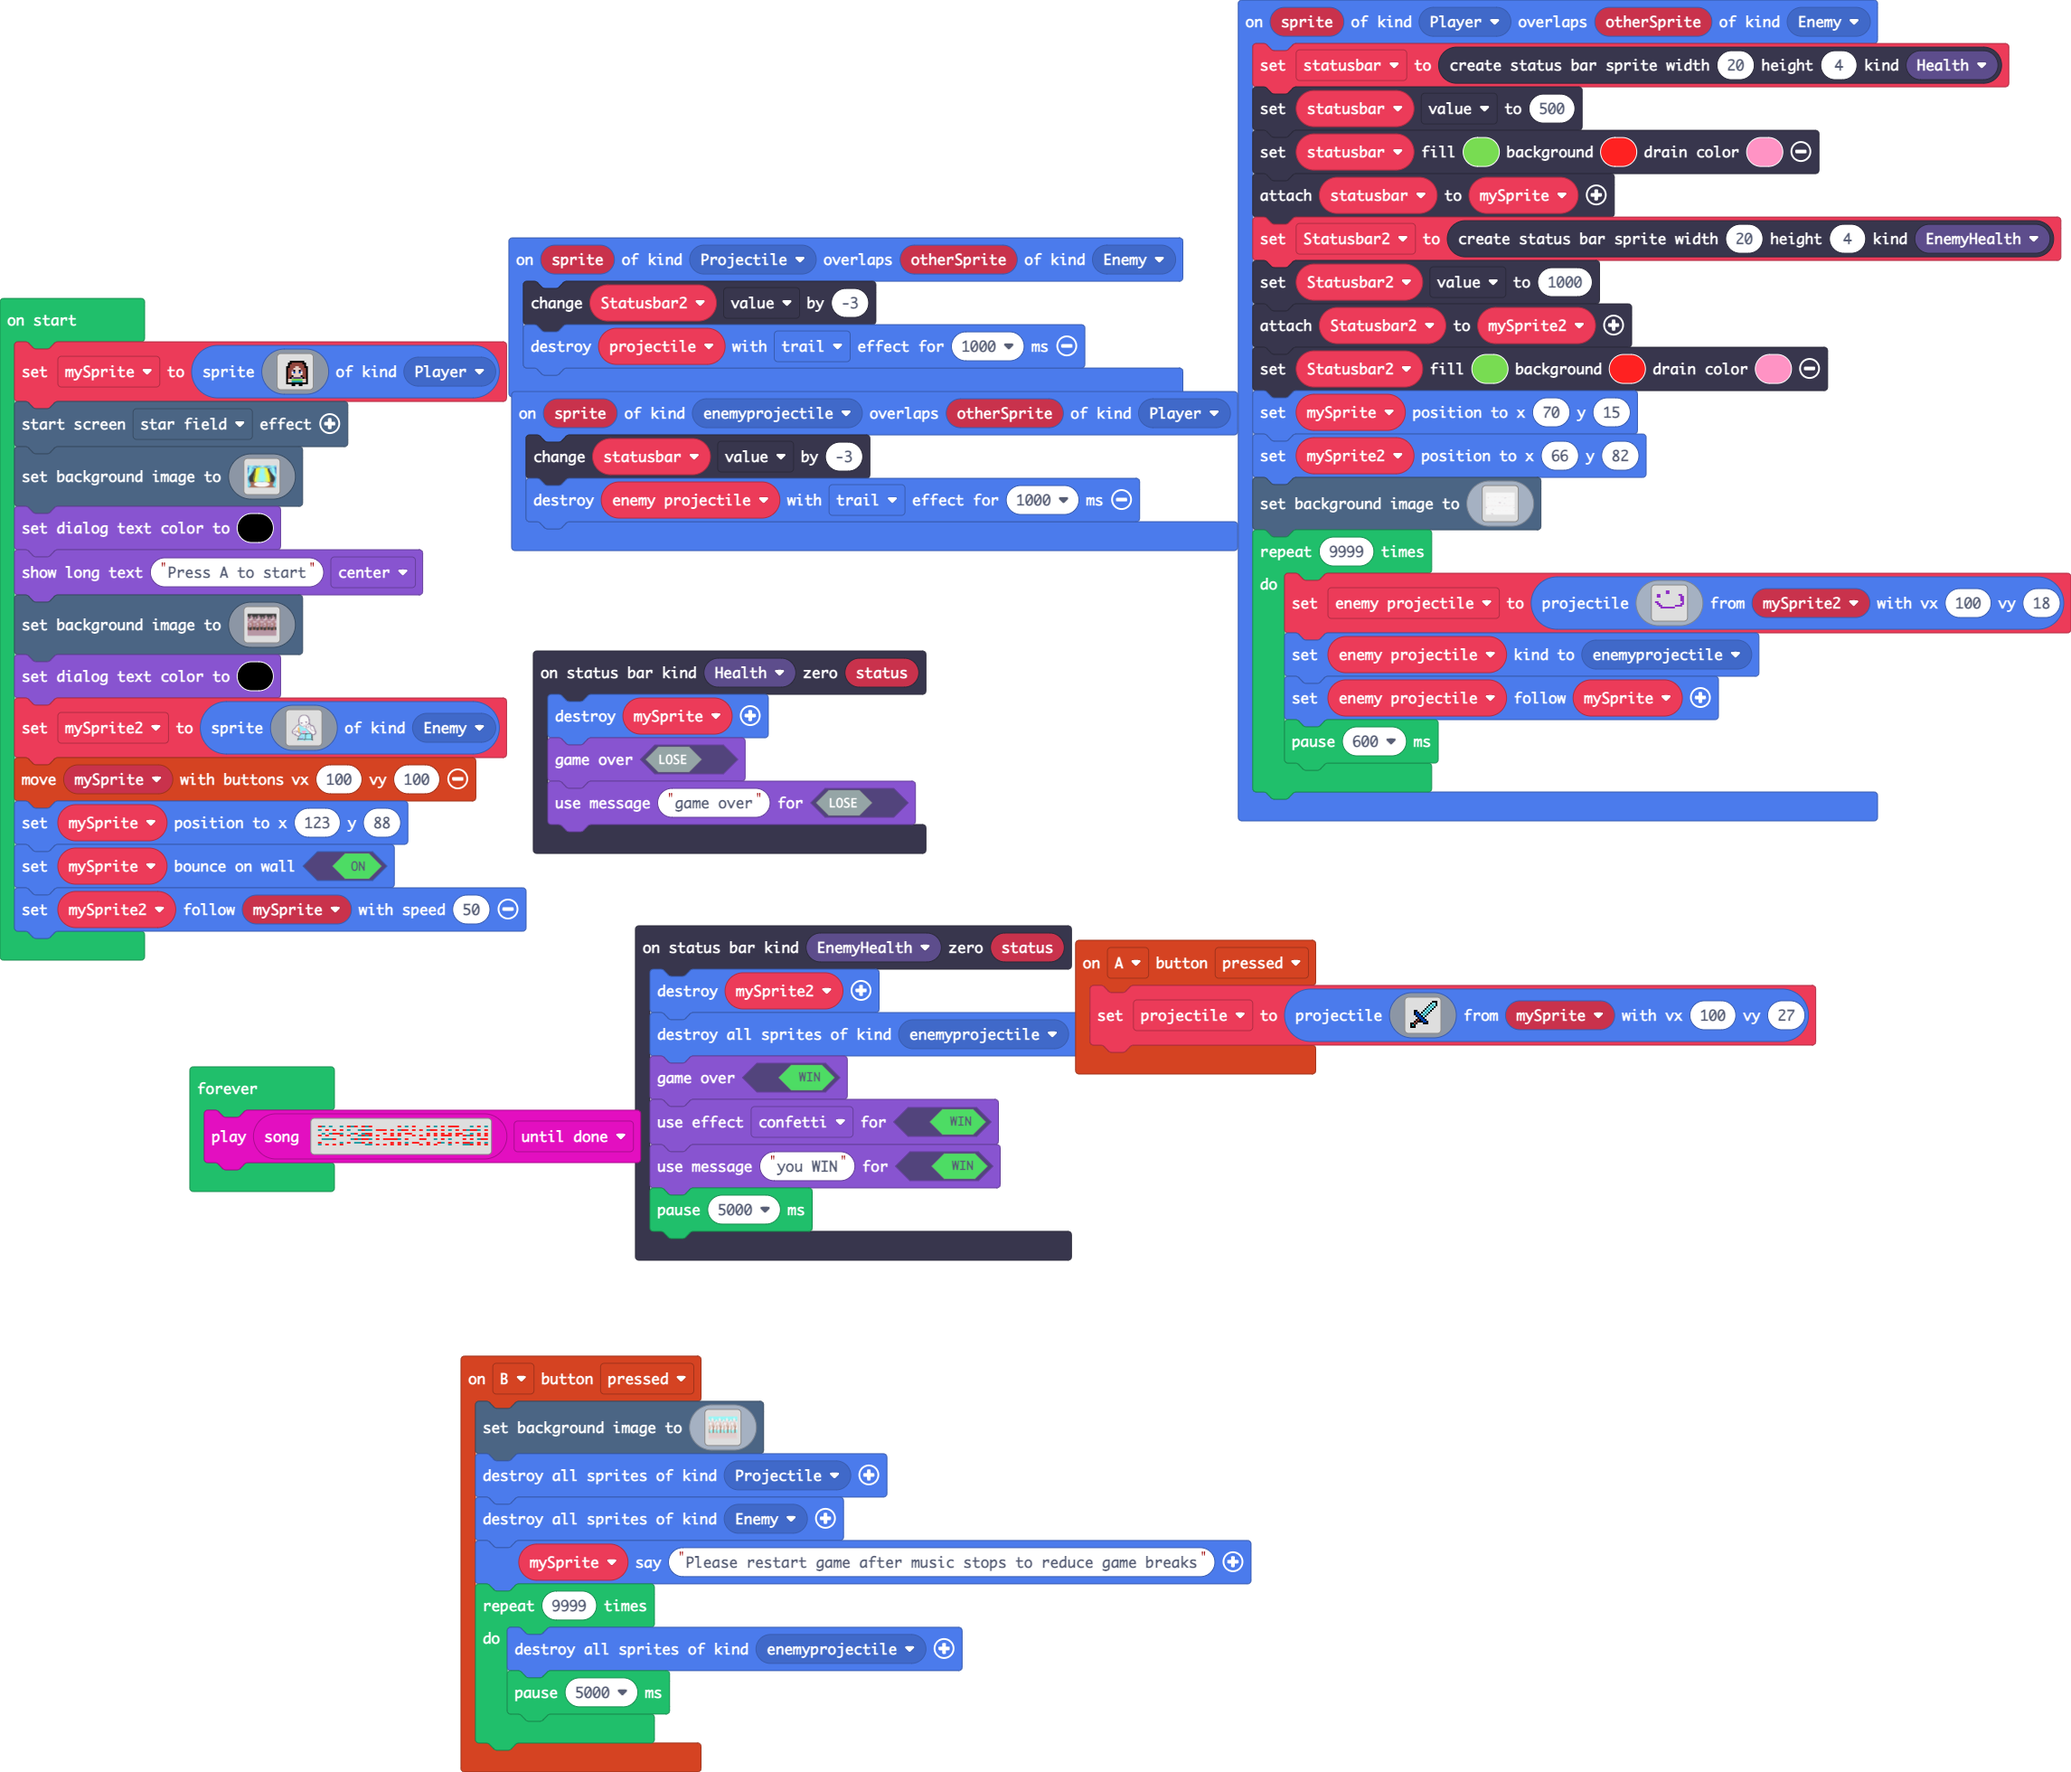
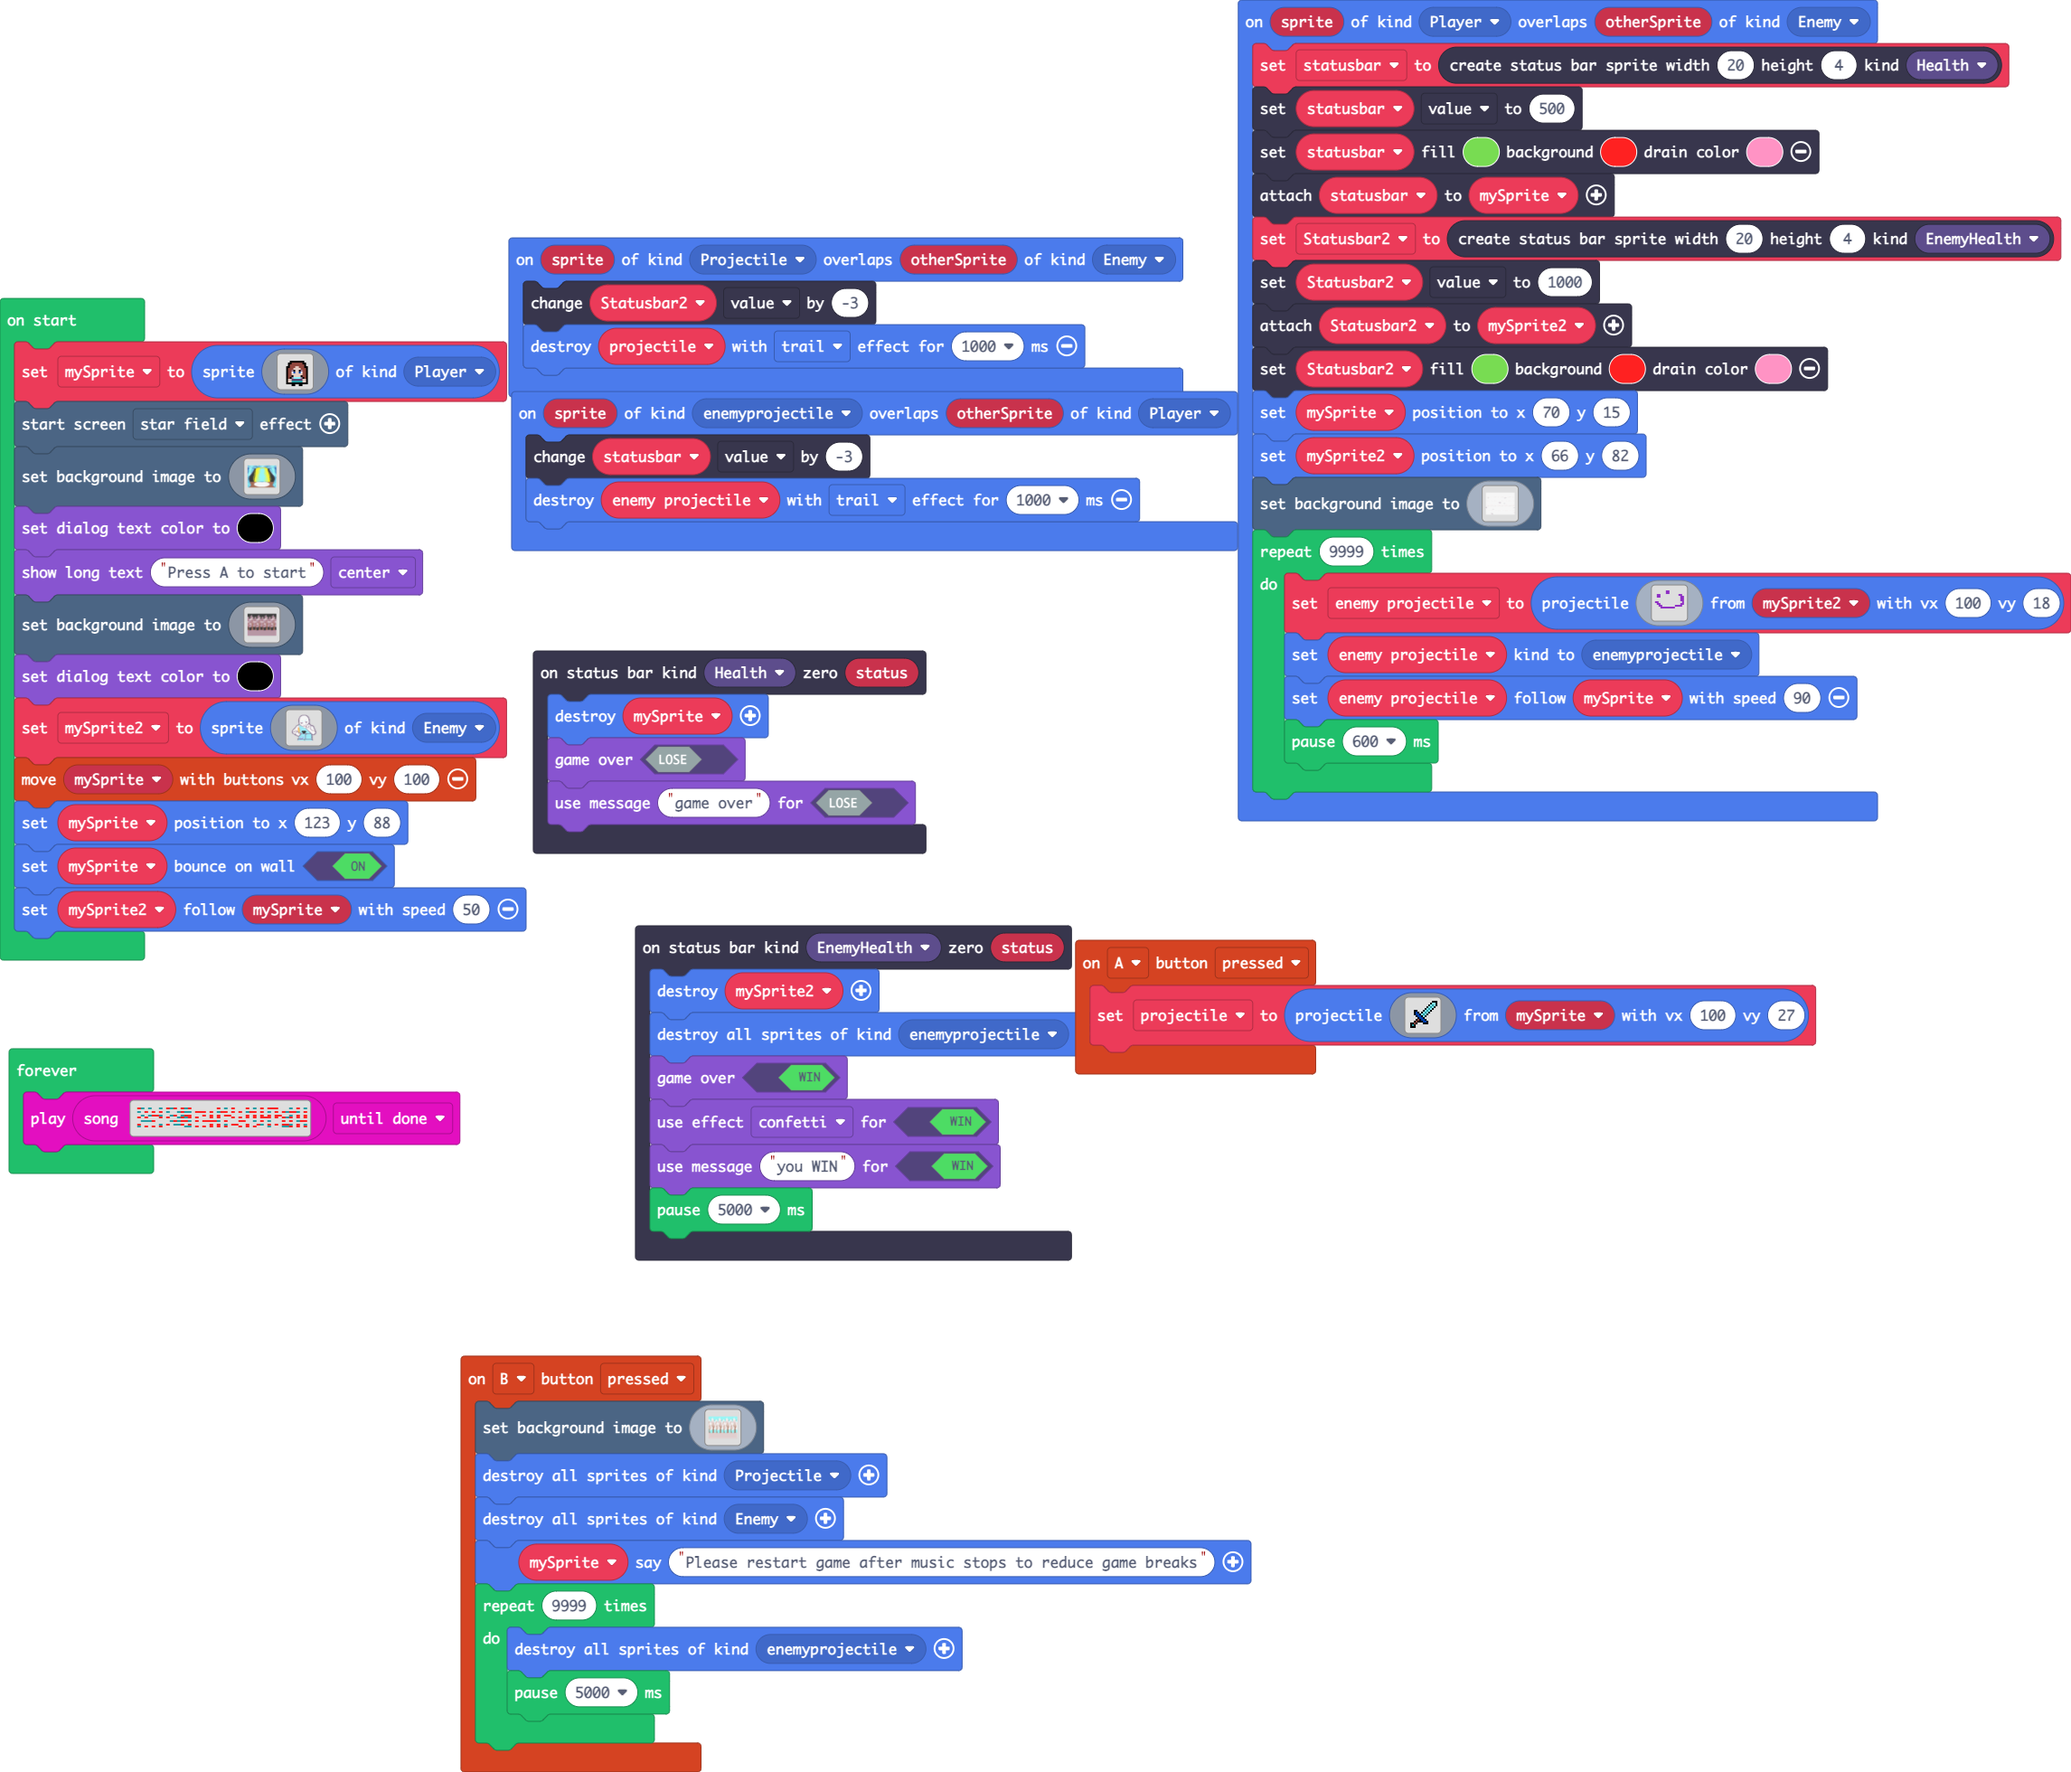
Update main.blocks, main.ts, images.g.jres, images.g.ts

Changed region(s): [[0.0, 0.5913, 0.3099, 0.6847], [0.8058, 0.3735, 0.8987, 0.4046]]

diff --git a/images.g.ts b/images.g.ts
@@ -736,25 +736,6 @@ f 4 4 4 4 4 1 4 4 f 4 4 d f f f
 . . . f f f f f f f f f f f f . 
 . . . . . . f f . . f f . . . . 
 `;
-            case "Mfrcm;8zj":
-            case "What_3":return img`
-. . . . . . . . . . . . . . . . 
-. . . . . . . . . . . . . . . . 
-. . . . . f f f f f f f f . . . 
-. . . . f f e e e e e e f f . . 
-. . . . f e e e e e e e e f . . 
-. . . f f e e e d d e e e f f . 
-. . . f e e e d d d d e e e f . 
-. . . f e e b f d d f b e e f . 
-. . . f e e 1 8 d d 8 1 e e f . 
-. . . f e e d d d d d d e e f . 
-. . . f e e f d d d d f e e f . 
-. . . f e f b c c c c b f e f . 
-. . . f d d 7 7 7 7 7 7 d d f . 
-. . . f d d 6 6 6 6 6 6 d d f . 
-. . . f f f f f f f f f f f f . 
-. . . . . . f f . . f f . . . . 
-`;
             case "auY}IkZuvW(lZXgt*zH=":
             case "What_5":return img`
 . . . . . . . . . . . . . f f f 
@@ -974,58 +955,24 @@ dddddddddddddddddddddddddddddddddddddddddddddddddddddddddddddddddddddddddddddddd
 dddddddddddddddddddddddddddddddddddddddddddddddddddddddddddddddddddddddddddddddddddddddddddddddddddddddddddddddddddddddddddddddddddddddddddddddddddddddddddddddd
 dddddddddddddddddddddddddddddddddddddddddddddddddddddddddddddddddddddddddddddddddddddddddddddddddddddddddddddddddddddddddddddddddddddddddddddddddddddddddddddddd
 `;
-            case "image7":
-            case "Ghost1":return img`
-..................................................
-..................................................
-..................................................
-...................fffffff........................
-..................ffddddddff......................
-.................fddd1111dddf.....................
-................fdd11111111ddf....................
-...............fdd1111111111ddf.....fffffff.......
-..............fdd111111111111ddf....f33f33f.......
-..............fd111ff111ff1111df....f33333f.......
-.............fdd111ff111ff1111ddf...ff333ff.......
-.............fd1111ff111ff11111df....ff3ff........
-.............fd1113311111331111df.....fff.........
-.............fd1113311111331111df.................
-.............fd111111fff1111111df.................
-.............fd1111111111111111df.................
-.............fd1111111111111111dff................
-.............fd1111111111111111dddf...............
-.........f..fdd111111111111111111df...............
-........fdffdd1111111111111111ddddf...............
-........fdddd1111111111111111ddffff...............
-........fd1111111111111111111df...................
-........fd111111111111111111ddf...................
-........fddd111111111111111ddf....................
-.........ffdd1111111111111ddf.....................
-...........fddd1111111111ddf......................
-............ffddddddddddddff......................
-.............fffffffffffff........................
-..................................................
-..................................................
-..................................................
-..................................................
-..................................................
-..................................................
-..................................................
-..................................................
-..................................................
-..................................................
-..................................................
-..................................................
-..................................................
-..................................................
-..................................................
-..................................................
-..................................................
-..................................................
-..................................................
-..................................................
-..................................................
-..................................................
+            case "Mfrcm;8zj":
+            case "What_3":return img`
+. . . . . . . . . . . . . . . . 
+. . . . . . . . . . . . . . . . 
+. . . . . f f f f f f f f . . . 
+. . . . f f e e e e e e f f . . 
+. . . . f e e e e e e e e f . . 
+. . . f f e e e d d e e e f f . 
+. . . f e e e d d d d e e e f . 
+. . . f e e b f d d f b e e f . 
+. . . f e e 1 8 d d 8 1 e e f . 
+. . . f e e d d d d d d e e f . 
+. . . f e e f d d d d f e e f . 
+. . . f e f b 9 9 9 9 b f e f . 
+. . . f d d c c c c c c d d f . 
+. . . f d d 6 6 6 6 6 6 d d f . 
+. . . f f f f f f f f f f f f . 
+. . . . . . f f . . f f . . . . 
 `;
             case "image6":
             case "finalBoss":return img`
@@ -1039,13 +986,13 @@ dddddddddddddddddddddddddddddddddddddddddddddddddddddddddddddddddddddddddddddddd
 .....................cc1111111111111111111c....................
 .....................c11111111111111111111c....................
 ....................cc11111111111111111111cc...................
-....................cc11111111111111111111cc...................
-....................cc111111111111111111111c...................
-....................cc111111111111111111111c...................
-....................cc111111111111111111111c...................
-....................cc111111111111bccc31111c...................
+....................cc11111111111111911111cc...................
+....................cc111111111111191111111c...................
+....................cc111119111111911111111c...................
+....................cc111111911111111111111c...................
+....................cc111111191111bcc3c1111c...................
 ....................cc11111111111111ccc1111c...................
-.....................c11bccc31111111cc11111c...................
+.....................c11bcc3c1111111cc11111c...................
 .....................cb111ccc1111111111111cc...................
 .....................cb111cc11111111111111cc...................
 .....................cb1111111111111b111ccccc..................
@@ -1063,27 +1010,27 @@ dddddddddddddddddddddddddddddddddddddddddddddddddddddddddddddddddddddddddddddddd
 ........cc111d1111145449999999999999999b1111111bb111111c.......
 .......cc11111d111d45549999999999999999bb1111111bb11111c.......
 .......c111111dd1ddd45499999999999999999bb1111111bbddd1cc......
-......cc1111bbbbbddd45499999fff9ffff99999bb11111111bddd1c......
+......cc1111bbbbbddd45499999fff9fff999999bb11111111bddd1c......
 ......cc11bbb111bbbd4549999ffffffffff99999bb11111111111dcc.....
-......cc11bb111bbbbc4549999ffffffffff99999dbc11111111111cc.....
-......cc11b111bb111bc5499999ffffffff9999999dcc11111111111c.....
-......cc111111b11111bc4cc9999ffffff99999999ddcc1111111111c.....
-.......cc1111b111111bb11cc9999ffff999999999dddcc11111111cc.....
-........cc111b1111111bb11cffffffffffffffffffffccc111111cc......
-..........cccb11111111bbcc9999f9999ffff999999999ccc111cc.......
-............ccc11111111bc9999999999f999999999999fcccccc........
-.............ccc1111111cc9999999999f999999999999f..............
-................cc1111cc99999999999f999999999999ff.............
-.................cccccc999999999999f9999999999999f.............
-....................f999999a9999999f9999999999999f.............
-....................f999999999a9999f999999999999ff.............
-....................f999a99999a9999f999999999999ff.............
-....................f99999999a99999f9999999999999f.............
-....................f99a99999a99999f9999999999999f.............
-..................fff99aaaaaa999999f9999999999999f.............
-..................ffffffffffffffffffffffffffffffff.............
-..................f9999999999999f9999999999999999ff............
-..................f99999999999999f9999999999999999f............
+......cc11bb111bbbbc4549999ffffffffff999999bc11111111111cc.....
+......cc11b111bb111bc5499999ffffffff99999999cc11111111111c.....
+......cc111111b11111bc4cc9999ffffff9999999999cc1111111111c.....
+.......cc1111b111111bb11cc9999ffff999999999999cc11111111cc.....
+........cc111b1111111bb11cccccccccccccccccccccccc111111cc......
+..........cccb11111111bbcc9999c9999cccc999999999ccc111cc.......
+............ccc11111111bc9999999999c999999999999ccccccc........
+.............ccc1111111cc9999999999c999999999999c..............
+................cc1111cc99999999999c999999999999cc.............
+.................cccccc999999999999c9999999999999c.............
+....................c999999a9999999c9999999999999c.............
+....................c999999999a9999c999999999999cc.............
+....................c999a99999a9999c999999999999cc.............
+....................c99999999a99999c9999999999999c.............
+....................c99a99999a99999c9999999999999c.............
+..................ccc99aaaaaa999999c9999999999999c.............
+..................cccccccccccccccccccccccccccccccc.............
+..................c9999999999999c9999999999999999cc............
+..................c99999999999999f9999999999999999c............
 `;
         }
         return null;

diff --git a/main.ts b/main.ts
@@ -50,7 +50,7 @@ sprites.onOverlap(SpriteKind.Player, SpriteKind.Enemy, function (sprite, otherSp
     for (let index = 0; index < 9999; index++) {
         enemy_projectile = sprites.createProjectileFromSprite(assets.image`What_4`, mySprite2, 100, 18)
         enemy_projectile.setKind(SpriteKind.enemyprojectile)
-        enemy_projectile.follow(mySprite)
+        enemy_projectile.follow(mySprite, 90)
         pause(600)
     }
 })
@@ -60,7 +60,7 @@ let statusbar: StatusBarSprite = null
 let projectile: Sprite = null
 let mySprite2: Sprite = null
 let mySprite: Sprite = null
-mySprite = sprites.create(assets.image`What_3`, SpriteKind.Player)
+mySprite = sprites.create(assets.image`Snow_1`, SpriteKind.Player)
 effects.starField.startScreenEffect()
 scene.setBackgroundImage(assets.image`Stage`)
 game.setDialogTextColor(15)
